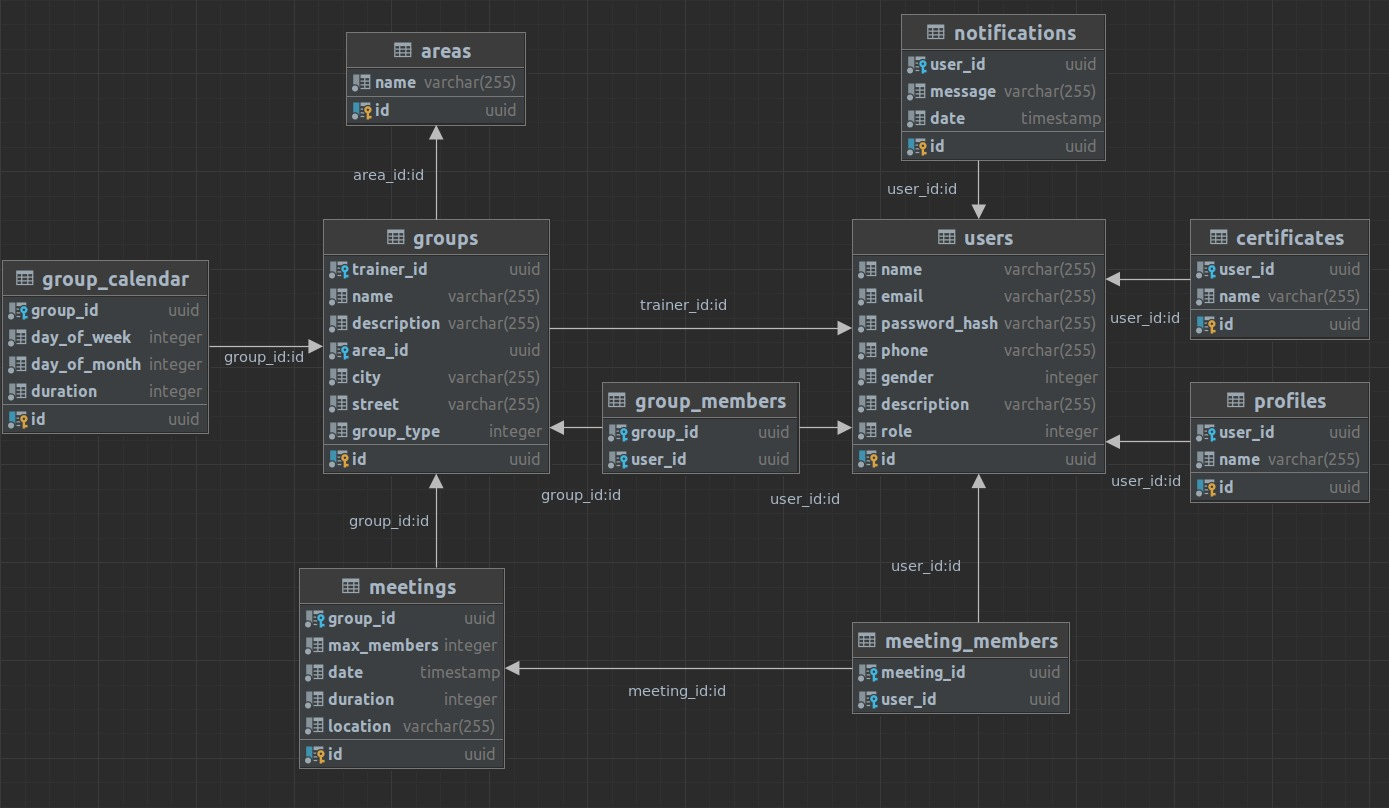
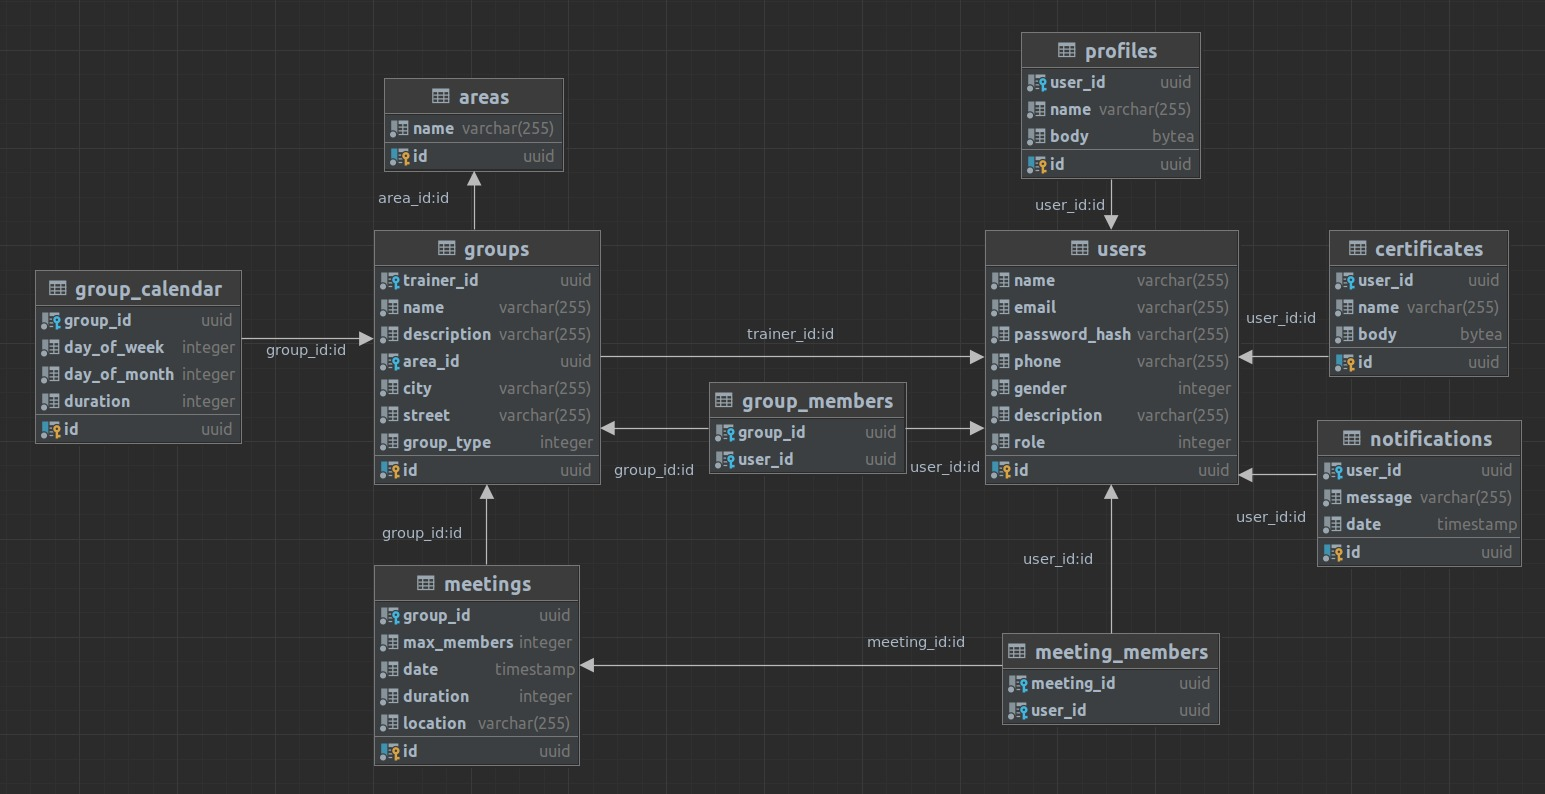
add files body to the database

diff --git a/backend/src/migrations.py b/backend/src/migrations.py
@@ -30,14 +30,16 @@ def create_database(cursor: psycopg.Cursor) -> None:
             id UUID PRIMARY KEY,
             user_id UUID NOT NULL
                 REFERENCES public.users (id),
-            name VARCHAR(255) NOT NULL
+            name VARCHAR(255) NOT NULL,
+            body BYTEA NOT NULL
         );
 
         CREATE TABLE public.certificates (
             id UUID PRIMARY KEY,
             user_id UUID NOT NULL
                 REFERENCES public.users (id),
-            name VARCHAR(255) NOT NULL
+            name VARCHAR(255) NOT NULL,
+            body BYTEA NOT NULL
         );
 
         CREATE TABLE public.areas (
